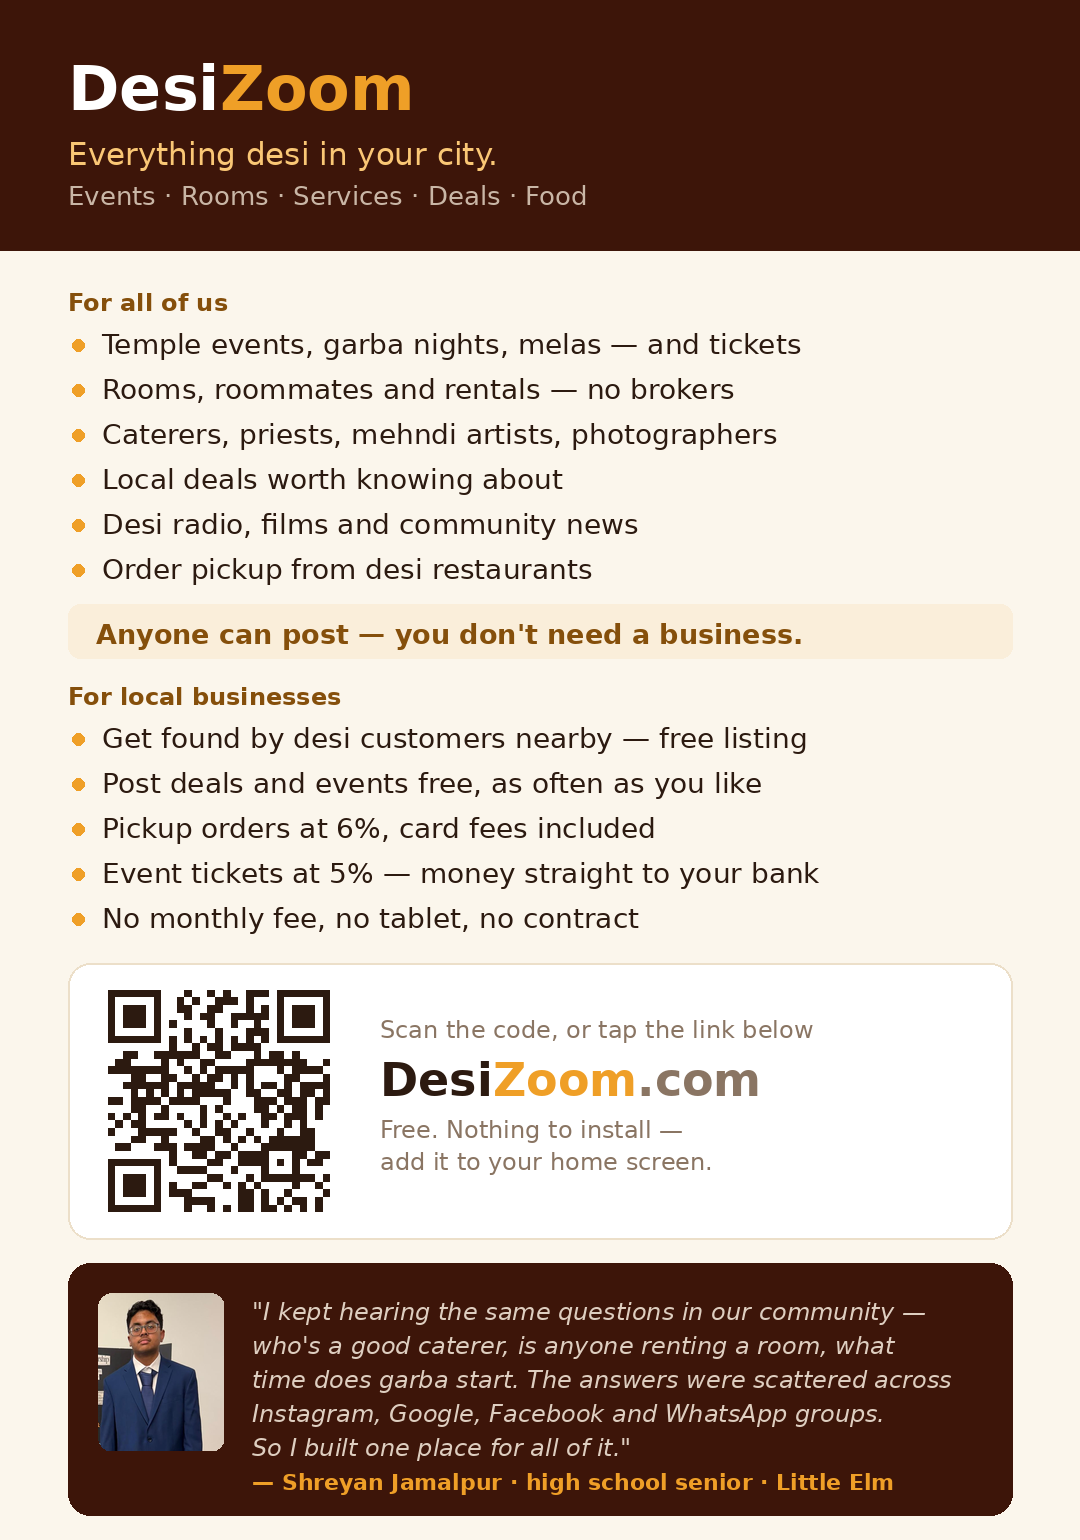
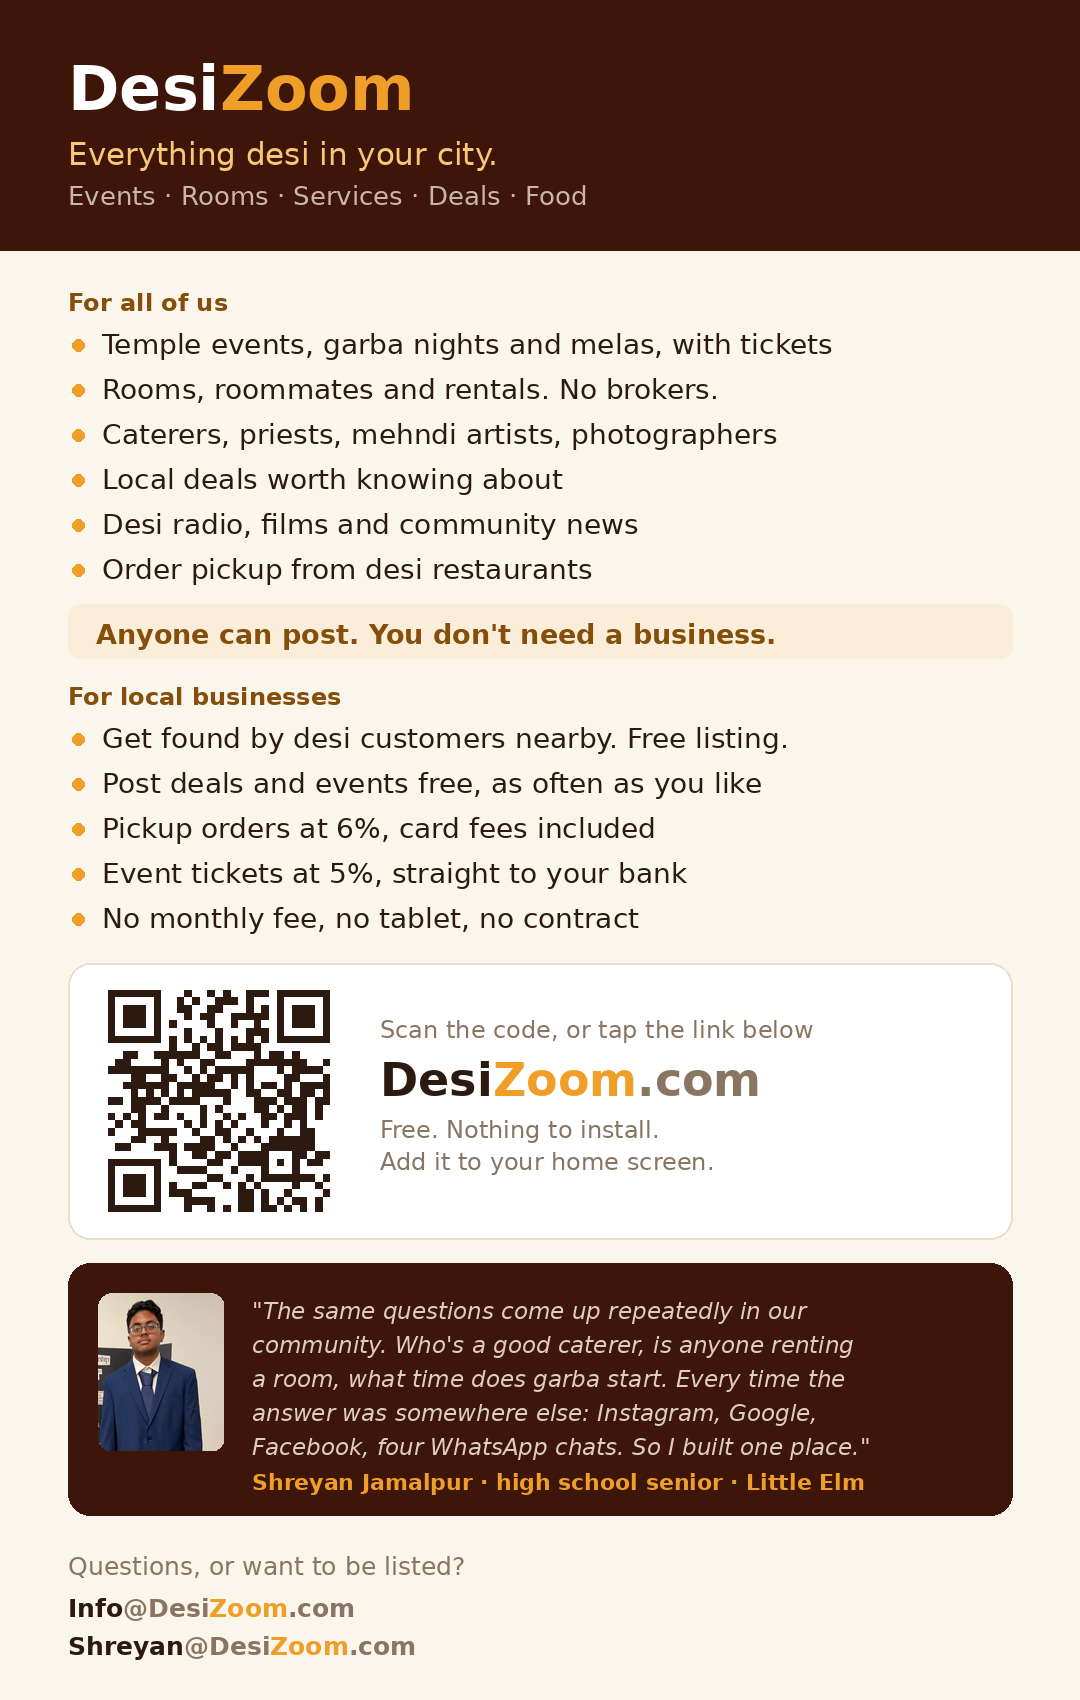
State all three commission rates; drop delivery-app comparisons

Changed region(s): [[0.0, 0.0312, 1.0, 0.9974]]

diff --git a/src/pages/Help.tsx b/src/pages/Help.tsx
@@ -50,10 +50,15 @@ const BIZ: QA[] = [
 
   { q: 'What does DesiZoom cost?',
     a: <>Listing is free. There's no monthly fee, no tablet, no contract and no minimum.
-       We take <b>6% of the item total on food orders</b> — pickup or your own delivery — and
-       <b> 5% on event tickets</b>. Card processing is included in that; you are not charged a separate
-       processing fee. If you charge a delivery fee, you keep all of it. Posting deals and events is free;
-       there's an optional $2.99 boost if you want a deal pinned to the top for a week.</> },
+       We take a commission only when you actually get paid:
+       <ul style={{ margin: '10px 0', paddingLeft: 22 }}>
+         <li><b>6%</b> on food orders, on the item total</li>
+         <li><b>8%</b> on service bookings (catering, priests, photography and the rest)</li>
+         <li><b>5%</b> on event tickets</li>
+       </ul>
+       Card processing is included in all of those; you are not charged a separate processing fee.
+       If you charge a delivery fee, you keep all of it. Posting deals and events is free, as often
+       as you like; there's an optional $2.99 boost if you want a deal pinned to the top for a week.</> },
 
   { q: 'How do I add menu items? Can I upload a photo of my menu?',
     a: <>My Business → Menu & Orders. Add items by hand, or upload a photo or PDF of your printed menu and
@@ -102,7 +107,7 @@ const ALL: QA[] = [
 
   { q: 'What is the service fee?',
     a: <>A small fee on food orders — 2% plus 69¢, never more than $1.99 — shown separately before you pay.
-       It's what keeps DesiZoom running without charging restaurants the 15–30% the delivery apps do.
+       It's what keeps DesiZoom running while charging restaurants a low commission, so their prices stay the same as in store.
        Sales tax is added where it applies.</> },
 
   { q: 'How do refunds work?',

diff --git a/src/pages/MerchantTerms.tsx b/src/pages/MerchantTerms.tsx
@@ -43,11 +43,12 @@ const BLOCKS: Block[] = [
   `We charge commission only when you actually get paid through the platform:`,
   { list: [
     `Food pickup and delivery orders — 6% of the item subtotal.`,
-    `Service bookings and event tickets — the rate shown to you when you enable that feature.`,
+    `Service bookings — 8% of the booking price.`,
+    `Event tickets — 5% of the ticket price.`,
   ]},
   `Commission is calculated on your items only. If you charge a delivery or shipping fee, you keep 100% of it — that is your work, not ours.`,
   `Customers pay a separate small service fee to DesiZoom, shown to them at checkout. It is ours, it does not come out of your money, and it does not change what you receive.`,
-  `Card processing costs are paid by DesiZoom out of our commission. You are not charged a separate processing fee, and the 6% is not reduced by one.`,
+  `Card processing costs are paid by DesiZoom out of our commission. You are not charged a separate processing fee on top of the rates above.`,
 
   { h: '4. How you get paid' },
   `Payments go through Stripe. You connect your own Stripe account; your bank details are yours and we never see them.`,

diff --git a/src/pages/Order.tsx b/src/pages/Order.tsx
@@ -210,7 +210,7 @@ export default function Order() {
               ? <div style={{ textAlign: 'center', padding: '50px 0', color: 'var(--muted)' }}>
                   <div style={{ fontSize: 44, marginBottom: 10 }}>🍛</div>
                   <p>No restaurants taking orders in {city} yet.</p>
-                  <p style={{ fontSize: 13 }}>Own a restaurant? List your menu from your profile. Just 6% per order (vs 30% on delivery apps).</p>
+                  <p style={{ fontSize: 13 }}>Own a restaurant? List your menu from your profile. 6% per order, card fees included.</p>
                 </div>
               : <div style={{ display: 'grid', gridTemplateColumns: 'repeat(auto-fill,minmax(260px,1fr))', gap: 14 }}>
                   {restaurants.map((r) => (

diff --git a/src/pages/AddBusiness.tsx b/src/pages/AddBusiness.tsx
@@ -356,7 +356,7 @@ export default function AddBusiness() {
             <h2 style={{ fontSize: 20, marginBottom: 4 }}>Get paid</h2>
             <p style={{ fontSize: 13, color: 'var(--muted)', margin: '0 0 16px' }}>
               Connect your bank once and payouts arrive automatically.
-              {engine === 'food' ? ' Just 6% per order (vs ~30% on delivery apps).' : ' Just 8% per booking. No monthly fees.'}
+              {engine === 'food' ? ' 6% per order, card fees included.' : ' 8% per booking, card fees included. No monthly fees.'}
             </p>
             <SellerOnboard />
             <div style={{ marginTop: 18, padding: '14px 16px', background: '#f0fdf4', border: '1px solid #bbf7d0', borderRadius: 12 }}>

diff --git a/src/pages/MyRestaurant.tsx b/src/pages/MyRestaurant.tsx
@@ -143,7 +143,7 @@ export default function MyRestaurant() {
       <div className="page-hero" style={{ background: 'linear-gradient(120deg,#2a1500,#1a0d00)' }}>
         <div className="eyebrow">🍛 My Restaurant</div>
         <h1>{restaurant ? restaurant.name : 'List Your Restaurant'}</h1>
-        <p>Take pickup orders commission-light: just 6% per order vs ~30% on delivery apps. Keep your customers.</p>
+        <p>Take pickup orders at 6% per order, card fees included. Your prices, your customers.</p>
       </div>
 
       <div style={{ padding: '24px 32px 48px' }}>

diff --git a/src/pages/About.tsx b/src/pages/About.tsx
@@ -63,7 +63,7 @@ export default function About() {
             <Point t="Promote what's new" d="Post deals, photos, services and events to people already looking." />
             <Point
               t={<>Restaurant pickup at <span style={{ color: 'var(--accent-text)' }}>6%</span></>}
-              d="Not the 15–30% delivery apps take. No monthly fee, no tablet, no contract."
+              d="Card fees included. 8% on service bookings, 5% on event tickets. No monthly fee, no tablet, no contract."
               last
             />
           </div>

diff --git a/marketing/make_whatsapp_poster.py b/marketing/make_whatsapp_poster.py
@@ -1,0 +1,98 @@
+# Regenerates marketing/desizoom-whatsapp.png — the WhatsApp share image.
+#   python3 marketing/make_whatsapp_poster.py
+#
+# Fees here must match create-order-session (6%) and create-ticket-session (5%).
+# If those change, change this and re-run.
+from PIL import Image, ImageDraw, ImageFont, ImageOps
+import qrcode, os
+
+ROOT = os.path.dirname(os.path.dirname(os.path.abspath(__file__)))
+W, H = 1080, 1700
+CREAM=(251,246,236); NAVY=(61,21,9); ACCENT=(239,159,39); GOLD=(250,199,117)
+TEXT=(44,26,16); MUTED=(138,117,99); BROWN=(133,79,11); SOFT=(250,238,218)
+FD="/usr/share/fonts/truetype/dejavu"
+def f(s,b=False,it=False):
+    return ImageFont.truetype(f"{FD}/DejaVuSans-Oblique.ttf" if it else
+                              (f"{FD}/DejaVuSans-Bold.ttf" if b else f"{FD}/DejaVuSans.ttf"), s)
+
+img = Image.new("RGB",(W,H),CREAM); d = ImageDraw.Draw(img)
+
+d.rectangle([0,0,W,250], fill=NAVY)
+d.text((68,52),"Desi",font=f(62,True),fill=(255,255,255))
+d.text((68+d.textlength("Desi",font=f(62,True)),52),"Zoom",font=f(62,True),fill=ACCENT)
+d.text((68,136),"Everything desi in your city.",font=f(31),fill=GOLD)
+d.text((68,180),"Events · Rooms · Services · Deals · Food",font=f(26),fill=(201,182,166))
+
+def sect(label, lines, y0, size=28, gap=45):
+    d.text((68,y0),label,font=f(24,True),fill=BROWN); y=y0+40
+    for ln in lines:
+        d.ellipse([72,y+11,84,y+23],fill=ACCENT)
+        d.text((102,y),ln,font=f(size),fill=TEXT); y+=gap
+    return y
+
+y = sect("For all of us",[
+ "Temple events, garba nights and melas, with tickets",
+ "Rooms, roommates and rentals. No brokers.",
+ "Caterers, priests, mehndi artists, photographers",
+ "Local deals worth knowing about",
+ "Desi radio, films and community news",
+ "Order pickup from desi restaurants"], 288)
+
+y += 6
+d.rounded_rectangle([68,y,W-68,y+54], radius=12, fill=SOFT)
+d.text((96,y+14),"Anyone can post. You don't need a business.",font=f(27,True),fill=BROWN)
+y += 78
+
+y = sect("For local businesses",[
+ "Get found by desi customers nearby. Free listing.",
+ "Post deals and events free, as often as you like",
+ "Pickup orders at 6%, card fees included",
+ "Event tickets at 5%, straight to your bank",
+ "No monthly fee, no tablet, no contract"], y)
+
+qr = qrcode.QRCode(box_size=10, border=1, error_correction=qrcode.constants.ERROR_CORRECT_H)
+qr.add_data("https://www.desizoom.com"); qr.make(fit=True)
+qi = qr.make_image(fill_color="#2c1a10", back_color="white").convert("RGB").resize((238,238), Image.NEAREST)
+
+by = y + 16
+d.rounded_rectangle([68,by,W-68,by+276], radius=22, fill=(255,255,255), outline=(236,223,201), width=2)
+img.paste(qi,(100,by+19))
+tx = 380
+d.text((tx,by+52),"Scan the code, or tap the link below",font=f(24),fill=MUTED)
+wf = f(46,True); x = tx
+for part,col in (("Desi",TEXT),("Zoom",ACCENT),(".com",MUTED)):
+    d.text((x,by+90),part,font=wf,fill=col); x += d.textlength(part,font=wf)
+d.text((tx,by+152),"Free. Nothing to install.",font=f(24),fill=MUTED)
+d.text((tx,by+184),"Add it to your home screen.",font=f(24),fill=MUTED)
+
+fy = by + 300
+d.rounded_rectangle([68,fy,W-68,fy+252], radius=22, fill=NAVY)
+try:
+    ph = Image.open(os.path.join(ROOT,"public","shreyan.jpg")).convert("RGB")
+    ph = ImageOps.fit(ph,(126,158),Image.LANCZOS,centering=(0.5,0.22))
+    m = Image.new("L",(126,158),0); ImageDraw.Draw(m).rounded_rectangle([0,0,126,158],radius=14,fill=255)
+    img.paste(ph,(98,fy+30),m)
+except Exception as e:
+    print("photo:",e)
+tx2 = 252
+for i,ln in enumerate([
+    '"The same questions come up repeatedly in our',
+    "community. Who's a good caterer, is anyone renting",
+    'a room, what time does garba start. Every time the',
+    'answer was somewhere else: Instagram, Google,',
+    'Facebook, four WhatsApp chats. So I built one place."']):
+    d.text((tx2,fy+34+i*34),ln,font=f(23,it=True),fill=(222,206,192))
+d.text((tx2,fy+206),"Shreyan Jamalpur · high school senior · Little Elm",font=f(22,True),fill=ACCENT)
+
+# Contact
+cy = fy + 252 + 36
+d.text((68,cy),"Questions, or want to be listed?",font=f(25),fill=MUTED)
+cf = f(25,True)
+for row,(local,) in enumerate([("Info",),("Shreyan",)]):
+    xx = 68
+    for part,col in ((local,TEXT),("@Desi",MUTED),("Zoom",ACCENT),(".com",MUTED)):
+        d.text((xx,cy+42+row*38),part,font=cf,fill=col); xx += d.textlength(part,font=cf)
+
+out = os.path.join(ROOT,"marketing","desizoom-whatsapp.png")
+img.save(out,"PNG",optimize=True)
+print("bottom:", cy+42+38+30, "of", H, "->", out)
